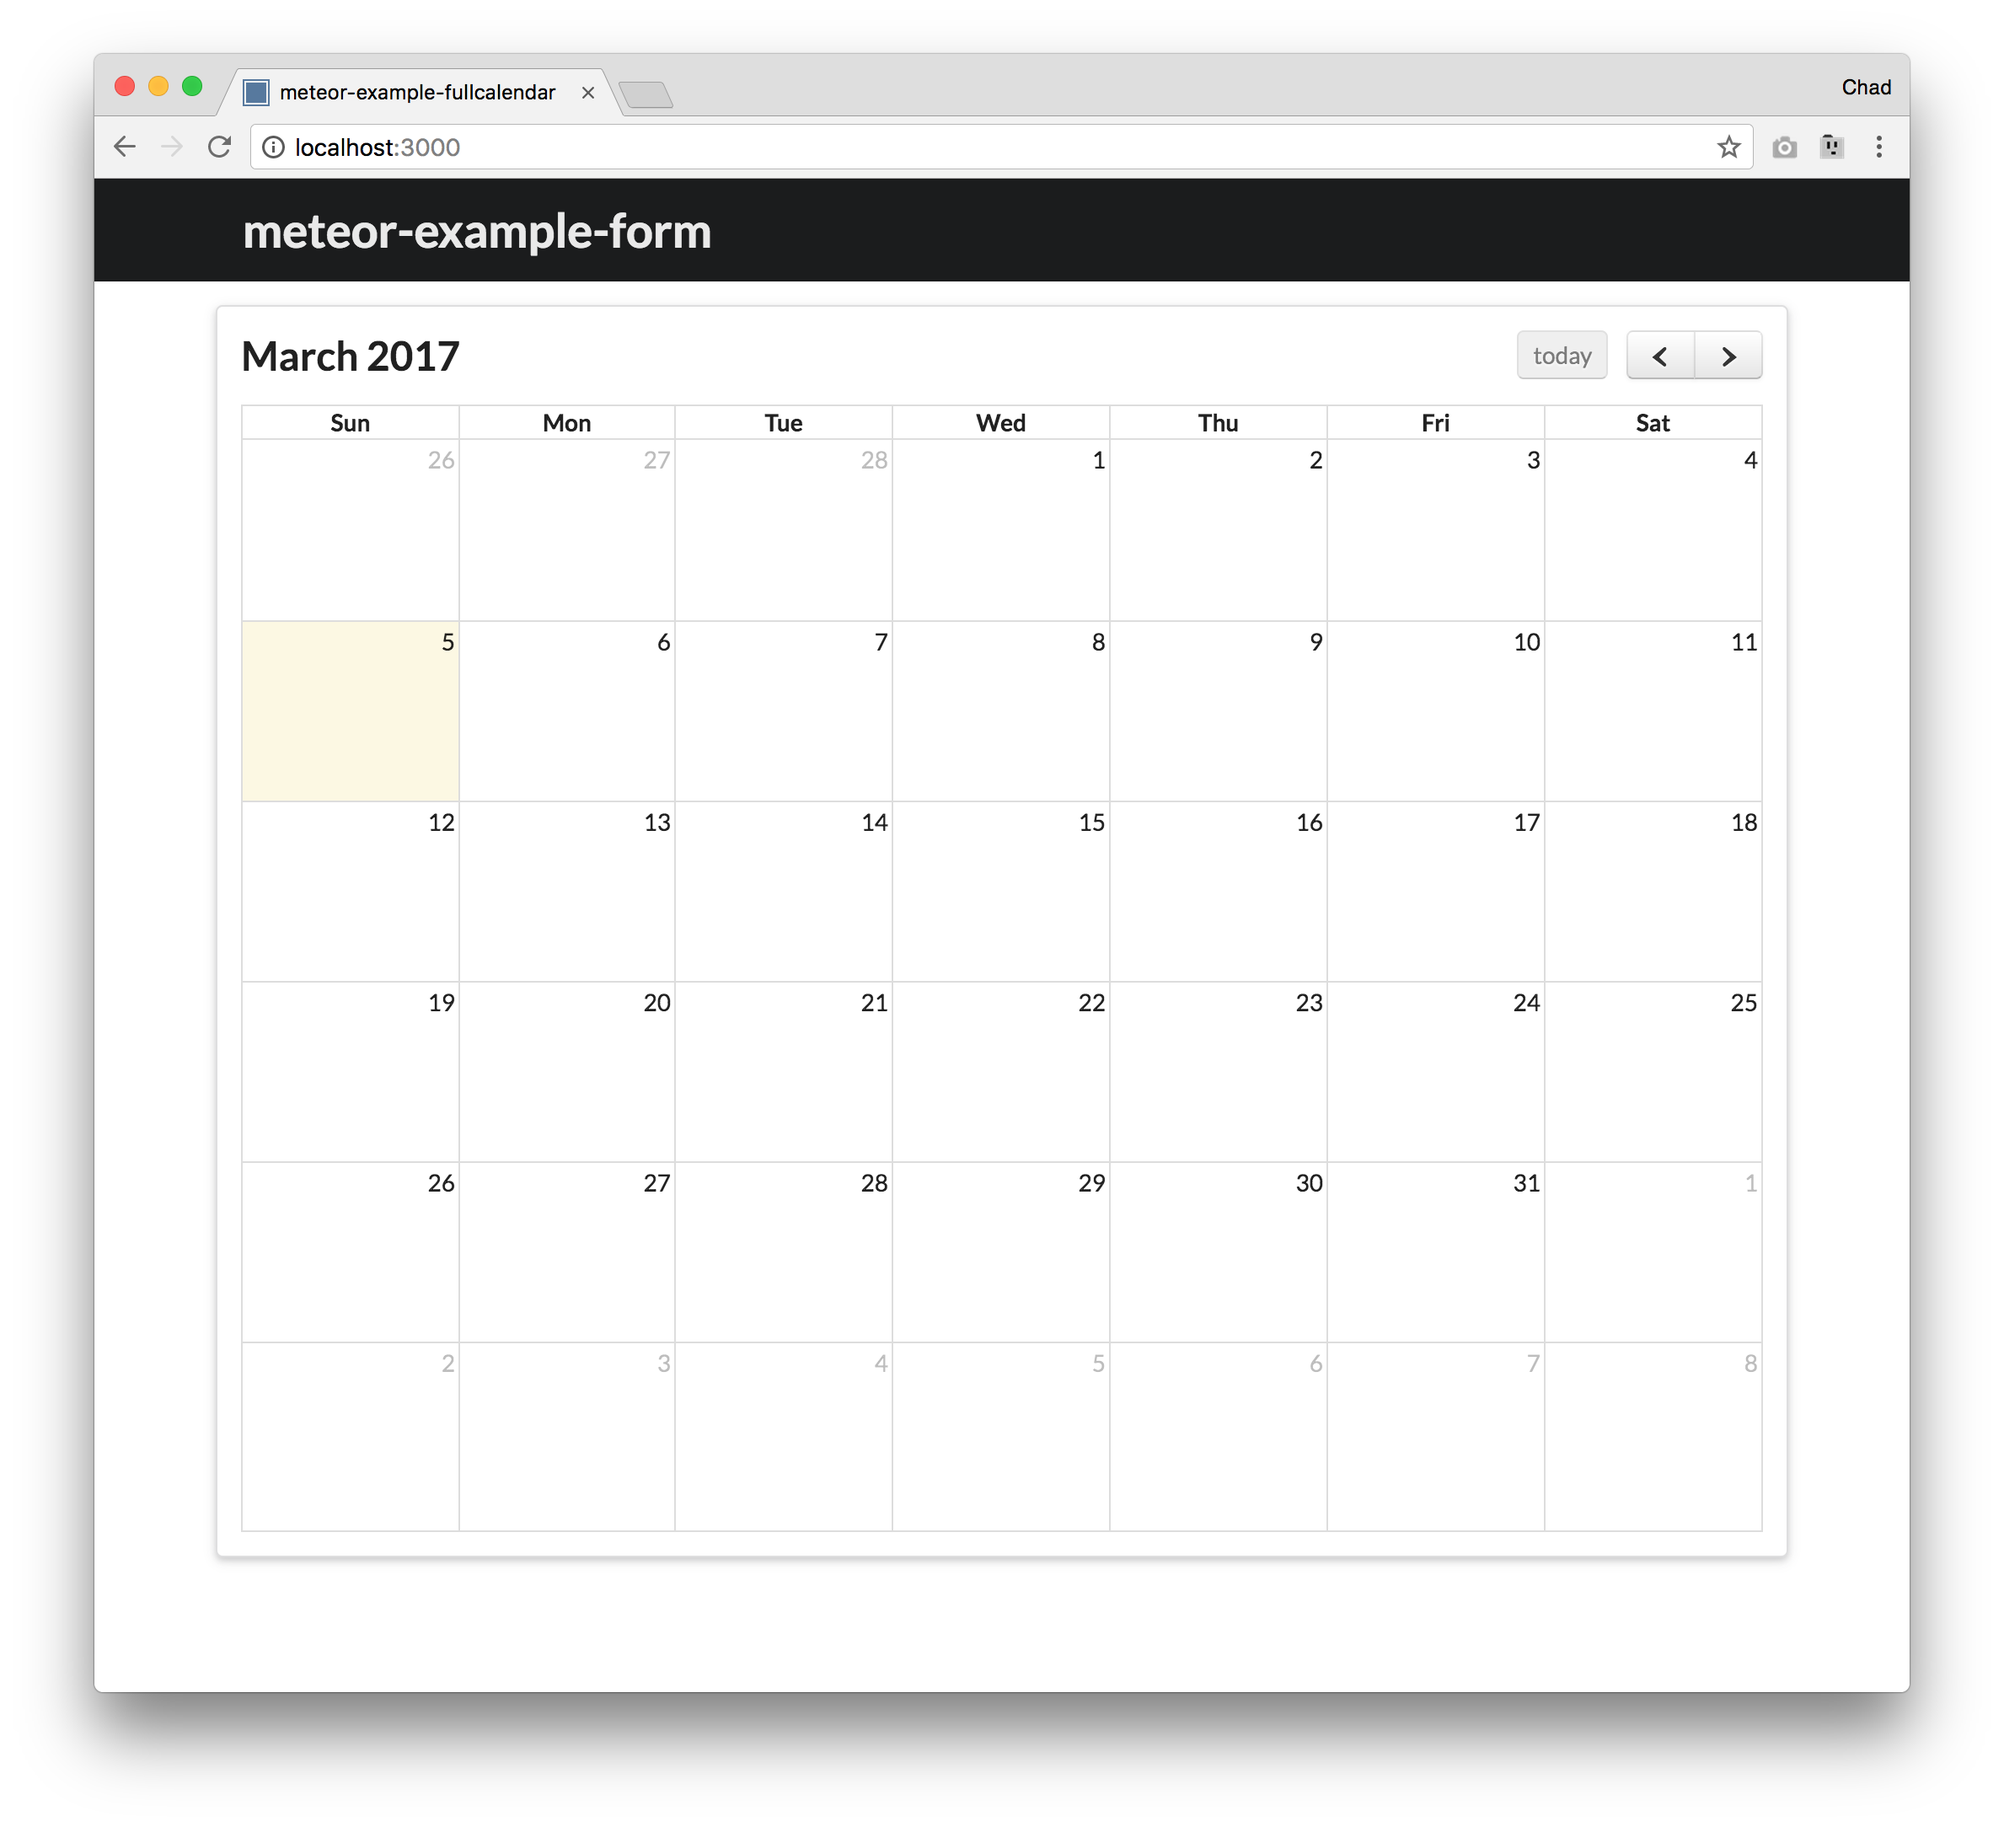
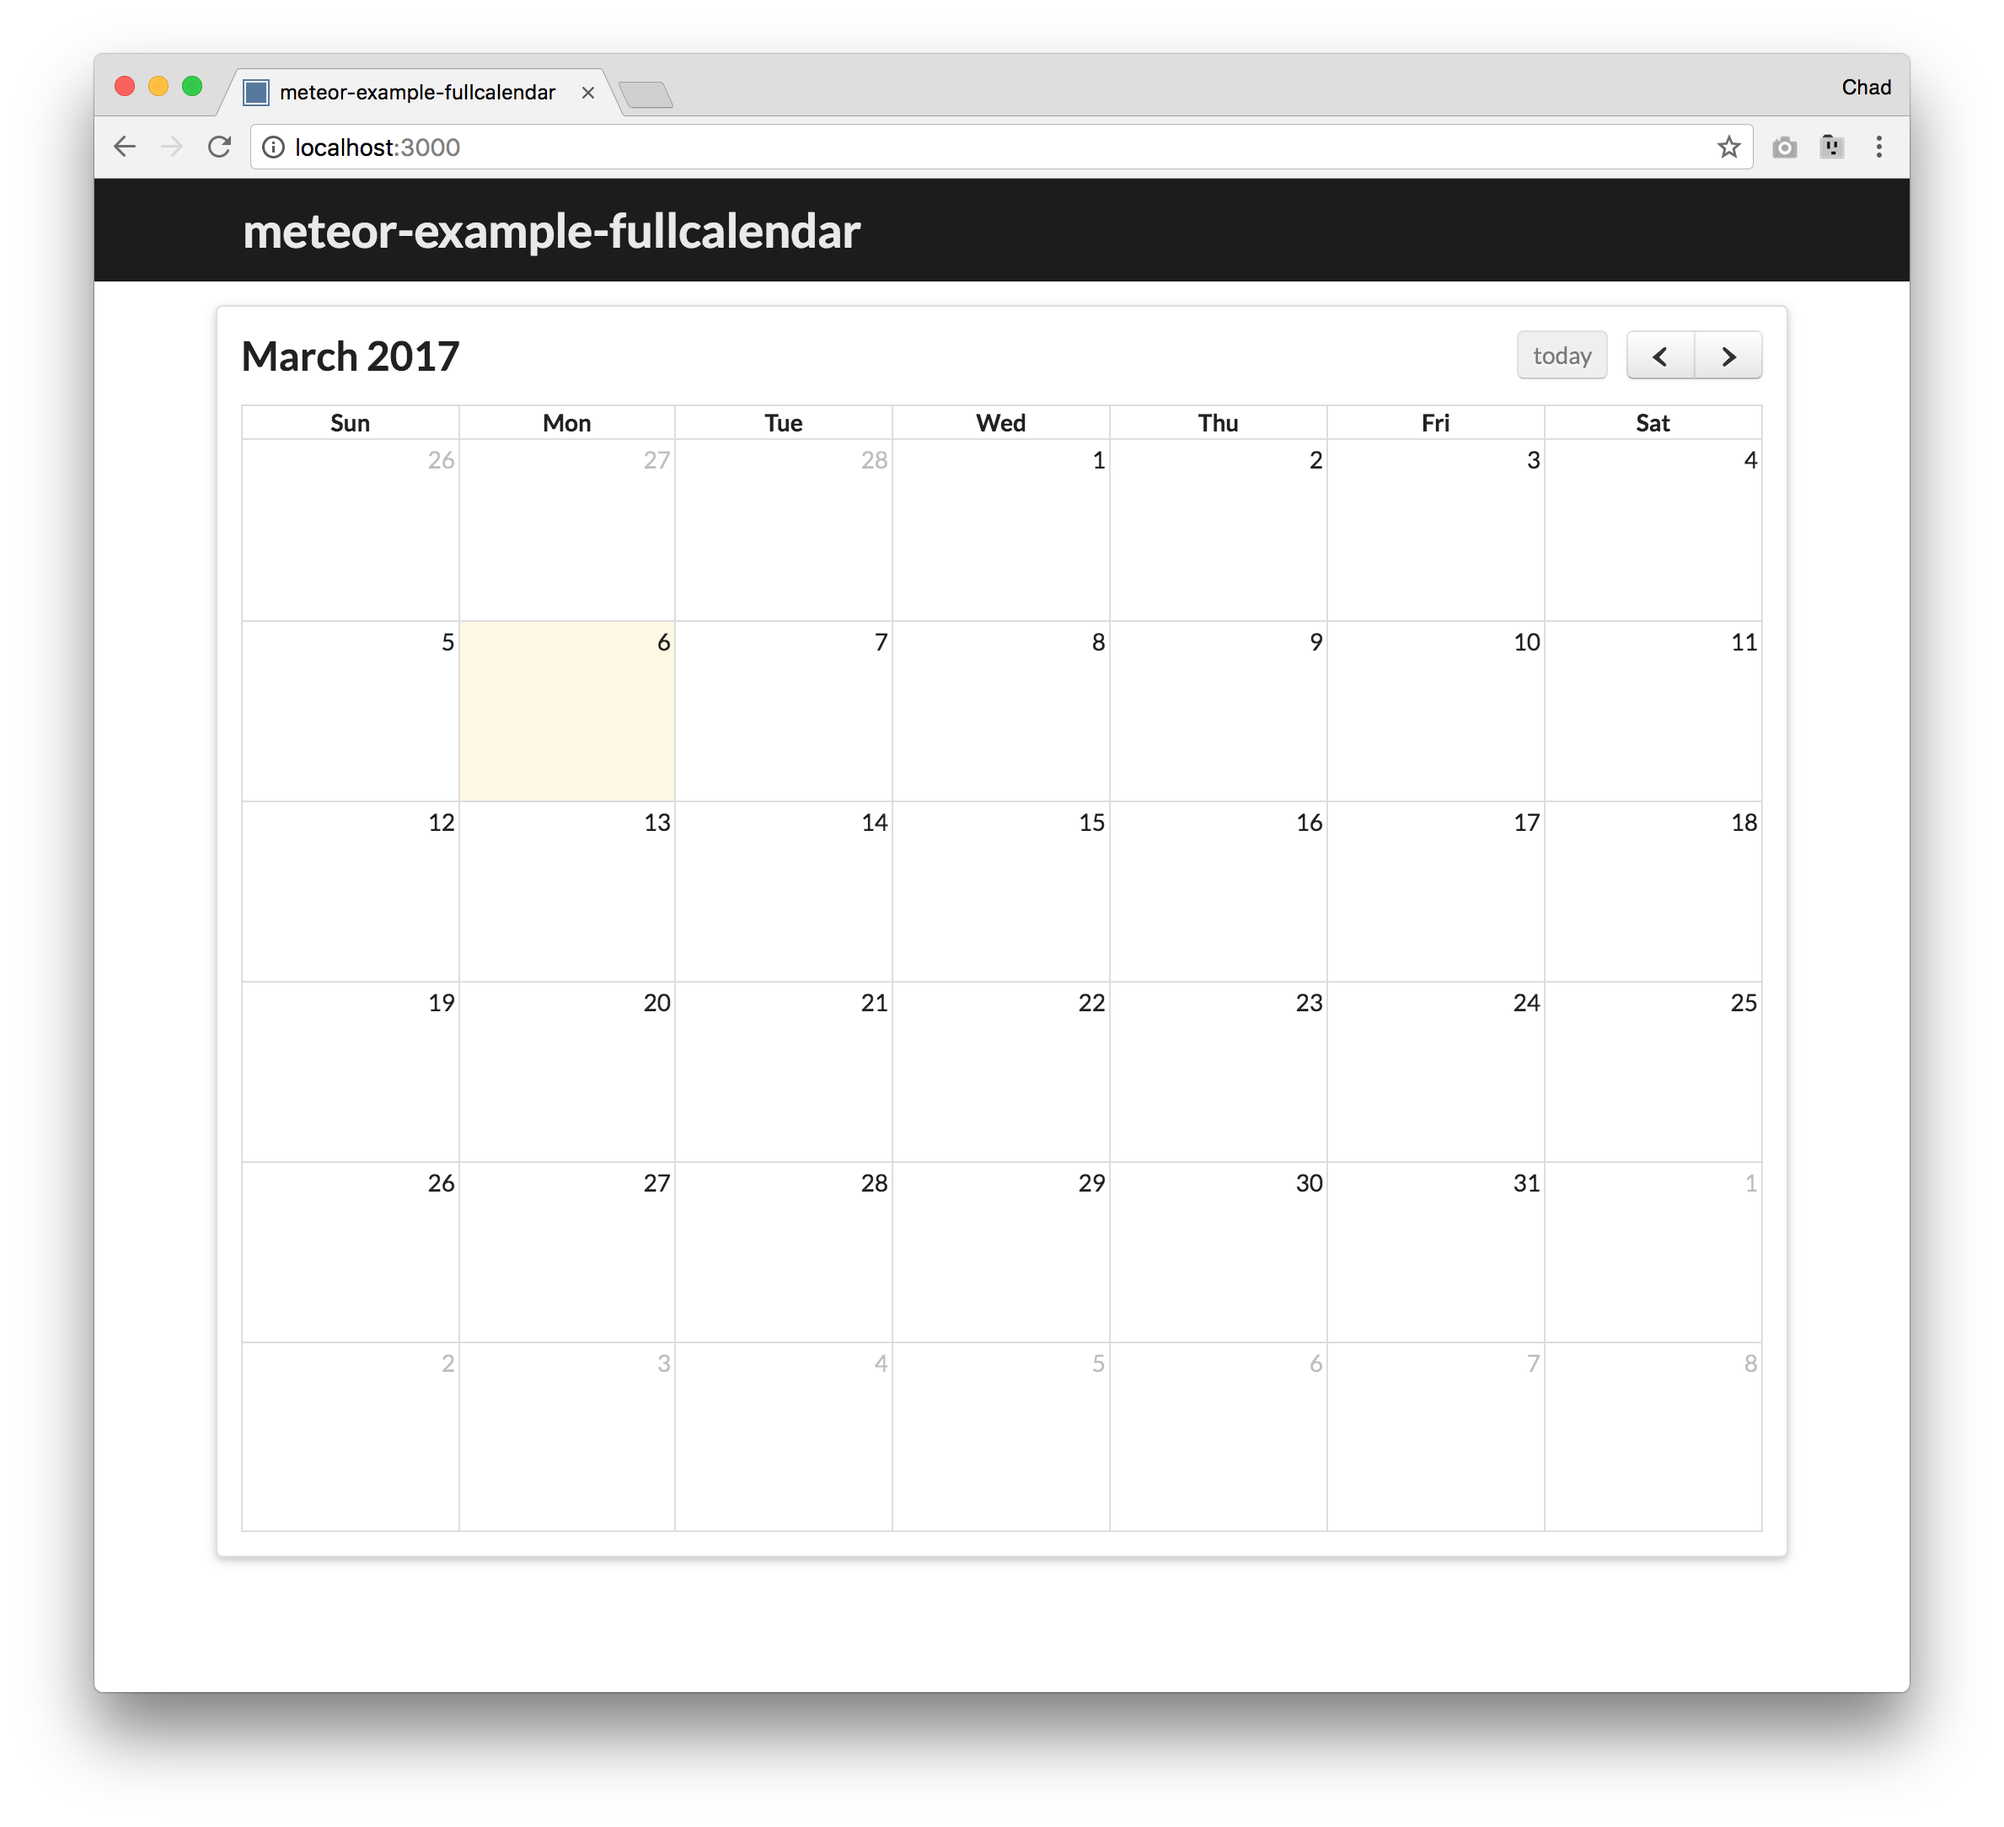
Updated screenshots to fix header error.

Changed region(s): [[0.0934, 0.3399, 0.3423, 0.4636], [0.3112, 0.1236, 0.4357, 0.1545]]

diff --git a/app/imports/ui/layouts/header.html b/app/imports/ui/layouts/header.html
@@ -1,7 +1,7 @@
 <template name="Header">
   <div class="ui top fixed borderless inverted menu">
     <div class="ui container">
-      <a class="item" ><h1>meteor-example-form</h1></a>
+      <a class="item" ><h1>meteor-example-fullcalendar</h1></a>
     </div>
   </div>
 </template>
